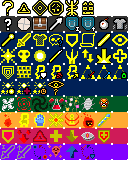
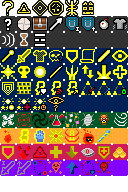
为各个新符术绘制图标

diff --git a/core/src/main/java/com/shatteredpixel/shatteredpixeldungeon/runes/spells/Spell.java b/core/src/main/java/com/shatteredpixel/shatteredpixeldungeon/runes/spells/Spell.java
@@ -42,9 +42,12 @@ public abstract class Spell {
     public static final int SENIOR_PHANTOM  = SPELLICON+5;
     public static final int RUNICBOMB       = SPELLICON+6;
     public static final int ANIMATE_ARMOR   = SPELLICON+7;
+    public static final int RINGWAVE        = SPELLICON+8;
+    public static final int STASISFIELD     = SPELLICON+9;
+    public static final int QIANKUN         = SPELLICON+10;
 
     //holy spells
-    public static int HOLY_SPELLICON        = SPELLICON+8;
+    public static int HOLY_SPELLICON        = SPELLICON+16;
     public static final int GUIDING_LIGHT   = HOLY_SPELLICON+0;
     public static final int HOLY_WEAPON     = HOLY_SPELLICON+1;
     public static final int HOLY_WARD       = HOLY_SPELLICON+2;
@@ -75,7 +78,7 @@ public abstract class Spell {
     public static final int HEAVEN_EYE      = HOLY_SPELLICON+27;
 
     //nature spells
-    public static int NATURE_SPELLICON      = SPELLICON+40;
+    public static int NATURE_SPELLICON      = SPELLICON+48;
     public static final int EVAPORATING     = NATURE_SPELLICON+0;
     public static final int THUNDER_SOUND   = NATURE_SPELLICON+1;
     public static final int SWITCH_GRAVITY  = NATURE_SPELLICON+2;
@@ -83,9 +86,10 @@ public abstract class Spell {
     public static final int GARDEN_SPELL    = NATURE_SPELLICON+4;
     public static final int SPIN_COCOON     = NATURE_SPELLICON+5;
     public static final int BEAN_SOLDIER    = NATURE_SPELLICON+6;
+    public static final int WINDOFREVIVAL   = NATURE_SPELLICON+7;
 
     //energetic spells
-    public static int ENERGETIC_SPELLICON   = SPELLICON+48;
+    public static int ENERGETIC_SPELLICON   = SPELLICON+56;
     public static final int BURNING         = ENERGETIC_SPELLICON+0;
     public static final int ELECTRIC_POWER  = ENERGETIC_SPELLICON+1;
     public static final int ELECTRIC_TOUCH  = ENERGETIC_SPELLICON+2;
@@ -95,7 +99,7 @@ public abstract class Spell {
     public static final int WANDS_CHARGE    = ENERGETIC_SPELLICON+6;
 
     //physical spells
-    public static int PHYSICAL_SPELLICON    = SPELLICON+56;
+    public static int PHYSICAL_SPELLICON    = SPELLICON+64;
     public static final int PROOFING        = PHYSICAL_SPELLICON+0;
     public static final int FRAMING         = PHYSICAL_SPELLICON+1;
     public static final int BLOODY_RUNES    = PHYSICAL_SPELLICON+2;
@@ -103,15 +107,17 @@ public abstract class Spell {
     public static final int SUPPRESS        = PHYSICAL_SPELLICON+4;
     public static final int ANATOMICAL_VIEWS    = PHYSICAL_SPELLICON+5;
     public static final int ABSORB_DAMAGE   = PHYSICAL_SPELLICON+6;
+    public static final int GOLDENPOWER     = PHYSICAL_SPELLICON+7;
 
     //inverse spells
-    public static int INVERSE_SPELLICON     = SPELLICON+64;
+    public static int INVERSE_SPELLICON     = SPELLICON+72;
     public static final int JUNIOR_RESHAPE  = INVERSE_SPELLICON+0;
     public static final int SENIOR_RESHAPE  = INVERSE_SPELLICON+1;
     public static final int SWAP_BETWEEN    = INVERSE_SPELLICON+2;
     public static final int CHAOS_LIVES     = INVERSE_SPELLICON+3;
     public static final int ASCENDING       = INVERSE_SPELLICON+4;
     public static final int SWAP_POWER      = INVERSE_SPELLICON+5;
+    public static final int CRAZYVOICE      = INVERSE_SPELLICON+6;
 
     public Image icon() {
         return new RuneIcon(icon);

diff --git a/core/src/main/java/com/shatteredpixel/shatteredpixeldungeon/runes/spells/GoldenPower.java b/core/src/main/java/com/shatteredpixel/shatteredpixeldungeon/runes/spells/GoldenPower.java
@@ -5,6 +5,8 @@ import com.shatteredpixel.shatteredpixeldungeon.actors.buffs.Buff;
 import com.shatteredpixel.shatteredpixeldungeon.actors.buffs.FlavourBuff;
 import com.shatteredpixel.shatteredpixeldungeon.actors.hero.Hero;
 import com.shatteredpixel.shatteredpixeldungeon.items.implement.Implement;
+import com.shatteredpixel.shatteredpixeldungeon.messages.Messages;
+import com.shatteredpixel.shatteredpixeldungeon.ui.BuffIndicator;
 import com.watabou.utils.Bundle;
 
 public class GoldenPower extends Spell{
@@ -12,7 +14,7 @@ public class GoldenPower extends Spell{
 
     {
         type = TYPE.PHYSICAL;
-        icon = PROOFING;
+        icon = GOLDENPOWER;
         tier = 1;
     }
 
@@ -30,6 +32,16 @@ public class GoldenPower extends Spell{
 
         private int gold = 0;
         public static String GOLD = "gold";
+
+        @Override
+        public int icon() {
+            return BuffIndicator.GOLD;
+        }
+
+        @Override
+        public String desc() {
+            return Messages.get(this, "desc", strengthBonus(), attackSkillBonus(), dispTurns());
+        }
 
         public void setGold(int gold) {
             this.gold = gold;

diff --git a/core/src/main/java/com/shatteredpixel/shatteredpixeldungeon/ui/BuffIndicator.java b/core/src/main/java/com/shatteredpixel/shatteredpixeldungeon/ui/BuffIndicator.java
@@ -151,6 +151,7 @@ public class BuffIndicator extends Component {
 	public static final int ANATOMICAL_VIEWS	= 96;
 	public static final int ABSORB_DAMAGE		= 97;
 	public static final int POWER_SWAP			= 98;
+	public static final int GOLD		= 102;
 
 	public static final int FEED		= 100;
 

diff --git a/core/src/main/java/com/shatteredpixel/shatteredpixeldungeon/runes/spells/CrazyVoice.java b/core/src/main/java/com/shatteredpixel/shatteredpixeldungeon/runes/spells/CrazyVoice.java
@@ -17,7 +17,7 @@ public class CrazyVoice extends TargetedSpell{
 
     {
         type = TYPE.INVERSE;
-        icon = CHAOS_LIVES;
+        icon = CRAZYVOICE;
         tier = 1;
     }
 

diff --git a/core/src/main/java/com/shatteredpixel/shatteredpixeldungeon/runes/spells/StasisField.java b/core/src/main/java/com/shatteredpixel/shatteredpixeldungeon/runes/spells/StasisField.java
@@ -17,7 +17,7 @@ public class StasisField extends TargetedSpell{
 
     {
         type = TYPE.NORMAL;
-        icon = RUNICBOMB;
+        icon = STASISFIELD;
         tier = 1;
     }
 

diff --git a/core/src/main/java/com/shatteredpixel/shatteredpixeldungeon/runes/spells/WindOfRevival.java b/core/src/main/java/com/shatteredpixel/shatteredpixeldungeon/runes/spells/WindOfRevival.java
@@ -16,7 +16,7 @@ public class WindOfRevival extends Spell{
 
     {
         type = TYPE.NATURE;
-        icon = THUNDER_SOUND;
+        icon = WINDOFREVIVAL;
         tier = 1;
     }
 

diff --git a/core/src/main/java/com/shatteredpixel/shatteredpixeldungeon/runes/spells/QianKunRoll.java b/core/src/main/java/com/shatteredpixel/shatteredpixeldungeon/runes/spells/QianKunRoll.java
@@ -22,7 +22,7 @@ public class QianKunRoll extends TargetedSpell{
 
     {
         type = TYPE.NORMAL;
-        icon = RUNICBOMB;
+        icon = QIANKUN;
         tier = 1;
     }
 

diff --git a/core/src/main/java/com/shatteredpixel/shatteredpixeldungeon/runes/spells/RingWave.java b/core/src/main/java/com/shatteredpixel/shatteredpixeldungeon/runes/spells/RingWave.java
@@ -17,7 +17,7 @@ public class RingWave extends TargetedSpell{
 
     {
         type = TYPE.NORMAL;
-        icon = RUNICBOMB;
+        icon = RINGWAVE;
         tier = 1;
     }
 
